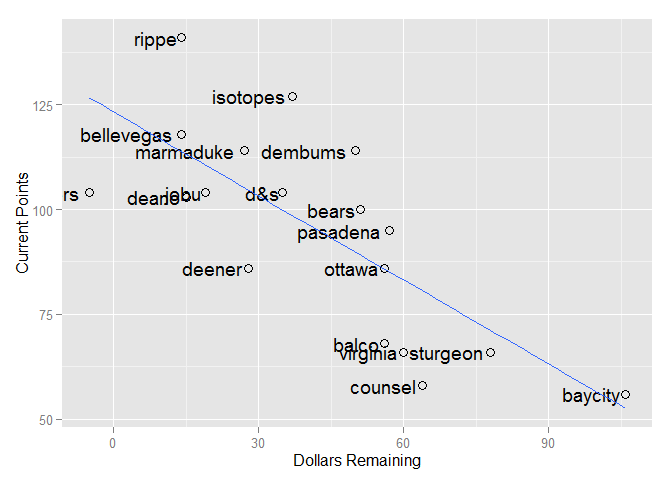
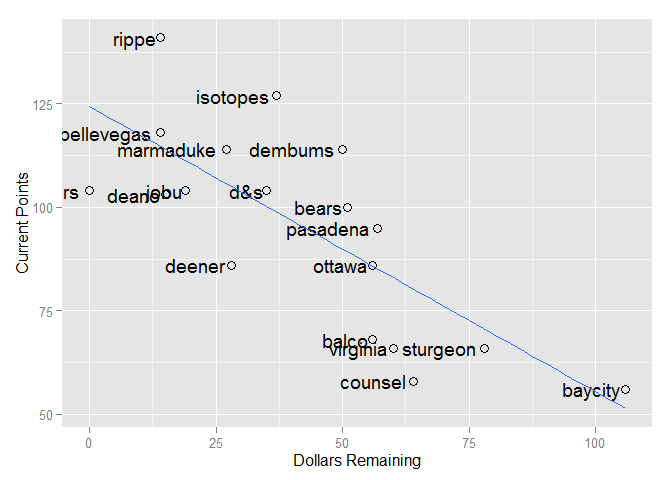
fixed draft pick

diff --git a/fantasy2015.html b/fantasy2015.html
@@ -67,32 +67,32 @@ img {
 <div id="league-status" class="section level1">
 <h1>league status</h1>
 <pre><code>##            spent left picks_left dollars_per_pick
-## rippe        246   14          6         2.333333
-## isotopes     223   37          9         4.111111
-## bellevegas   246   14          5         2.800000
-## marmaduke    233   27          6         4.500000
-## dembums      210   50         11         4.545455
-## pk dodgers   265   -5          0             -Inf
-## jobu         241   19          3         6.333333
-## d&amp;s          225   35         11         3.181818
-## deano        245   15          9         1.666667
-## bears        209   51          8         6.375000
-## pasadena     203   57          7         8.142857
-## ottawa       204   56         10         5.600000
-## deener       232   28         12         2.333333
-## balco        204   56         11         5.090909
-## virginia     200   60         13         4.615385
-## sturgeon     182   78          7        11.142857
-## counsel      196   64         13         4.923077
-## baycity      154  106         13         8.153846</code></pre>
-<div id="total-dollars-left-762" class="section level3">
-<h3>Total Dollars Left: <strong>762</strong></h3>
+## rippe        246   14          6             2.33
+## isotopes     223   37          9             4.11
+## bellevegas   246   14          5             2.80
+## marmaduke    233   27          6             4.50
+## dembums      210   50         11             4.55
+## pk dodgers   260    0          0              NaN
+## jobu         241   19          3             6.33
+## d&amp;s          225   35         11             3.18
+## deano        245   15          9             1.67
+## bears        209   51          8             6.38
+## pasadena     203   57          7             8.14
+## ottawa       204   56         10             5.60
+## deener       232   28         12             2.33
+## balco        204   56         11             5.09
+## virginia     200   60         13             4.62
+## sturgeon     182   78          7            11.14
+## counsel      196   64         13             4.92
+## baycity      154  106         13             8.15</code></pre>
+<div id="total-dollars-left-767" class="section level3">
+<h3>Total Dollars Left: <strong>767</strong></h3>
 </div>
 <div id="total-picks-left-154" class="section level3">
-<h3>Total Picks Left: <strong>154</strong></h3>
+<h3>Total Picks Left: <strong>$154</strong></h3>
 </div>
-<div id="average-dollarspick-4.95" class="section level3">
-<h3>Average Dollars/Pick: <strong>$4.95</strong></h3>
+<div id="average-dollarspick-4.98" class="section level3">
+<h3>Average Dollars/Pick: <strong>$4.98</strong></h3>
 </div>
 </div>
 <div id="current-stats" class="section level1">
@@ -103,7 +103,7 @@ img {
 ## bellevegas 879 251 910  99.1 0.259 3.92 1.27 1252 41 82   246   14
 ## marmaduke  886 223 843 145.2 0.259 3.95 1.28  996 75 51   233   27
 ## dembums    800 209 799 101.3 0.267 3.88 1.27 1264 52 58   210   50
-## pk dodgers 741 157 692 145.0 0.257 3.46 1.20 1238 65 87   265   -5
+## pk dodgers 741 157 692 145.0 0.257 3.46 1.20 1238 65 87   260    0
 ## jobu       928 185 803 148.0 0.257 4.12 1.30 1196 68 89   241   19
 ## d&amp;s        760 167 734 101.2 0.261 3.57 1.22 1393 51 84   225   35
 ## deano      843 219 848 101.0 0.269 3.94 1.30 1157 54 47   245   15
@@ -163,7 +163,7 @@ img {
 </div>
 <div id="scatter-of-remaining-dollars-vs.current-points" class="section level1">
 <h1>Scatter of Remaining Dollars vs. Current Points</h1>
[2 lines of base64/hex data omitted]
 </div>
 <div id="top-50-hitter-targets" class="section level1">
 <h1>Top 50 Hitter Targets</h1>

diff --git a/fantasy2015.md b/fantasy2015.md
@@ -8,28 +8,28 @@
 
 ```
 ##            spent left picks_left dollars_per_pick
-## rippe        246   14          6         2.333333
-## isotopes     223   37          9         4.111111
-## bellevegas   246   14          5         2.800000
-## marmaduke    233   27          6         4.500000
-## dembums      210   50         11         4.545455
-## pk dodgers   265   -5          0             -Inf
-## jobu         241   19          3         6.333333
-## d&s          225   35         11         3.181818
-## deano        245   15          9         1.666667
-## bears        209   51          8         6.375000
-## pasadena     203   57          7         8.142857
-## ottawa       204   56         10         5.600000
-## deener       232   28         12         2.333333
-## balco        204   56         11         5.090909
-## virginia     200   60         13         4.615385
-## sturgeon     182   78          7        11.142857
-## counsel      196   64         13         4.923077
-## baycity      154  106         13         8.153846
+## rippe        246   14          6             2.33
+## isotopes     223   37          9             4.11
+## bellevegas   246   14          5             2.80
+## marmaduke    233   27          6             4.50
+## dembums      210   50         11             4.55
+## pk dodgers   260    0          0              NaN
+## jobu         241   19          3             6.33
+## d&s          225   35         11             3.18
+## deano        245   15          9             1.67
+## bears        209   51          8             6.38
+## pasadena     203   57          7             8.14
+## ottawa       204   56         10             5.60
+## deener       232   28         12             2.33
+## balco        204   56         11             5.09
+## virginia     200   60         13             4.62
+## sturgeon     182   78          7            11.14
+## counsel      196   64         13             4.92
+## baycity      154  106         13             8.15
 ```
-###Total Dollars Left: **762**
-###Total Picks Left: **154**
-###Average Dollars/Pick: **$4.95**
+###Total Dollars Left: **767**
+###Total Picks Left: **$154**
+###Average Dollars/Pick: **$4.98**
 
 #Current Stats
 
@@ -40,7 +40,7 @@
 ## bellevegas 879 251 910  99.1 0.259 3.92 1.27 1252 41 82   246   14
 ## marmaduke  886 223 843 145.2 0.259 3.95 1.28  996 75 51   233   27
 ## dembums    800 209 799 101.3 0.267 3.88 1.27 1264 52 58   210   50
-## pk dodgers 741 157 692 145.0 0.257 3.46 1.20 1238 65 87   265   -5
+## pk dodgers 741 157 692 145.0 0.257 3.46 1.20 1238 65 87   260    0
 ## jobu       928 185 803 148.0 0.257 4.12 1.30 1196 68 89   241   19
 ## d&s        760 167 734 101.2 0.261 3.57 1.22 1393 51 84   225   35
 ## deano      843 219 848 101.0 0.269 3.94 1.30 1157 54 47   245   15
